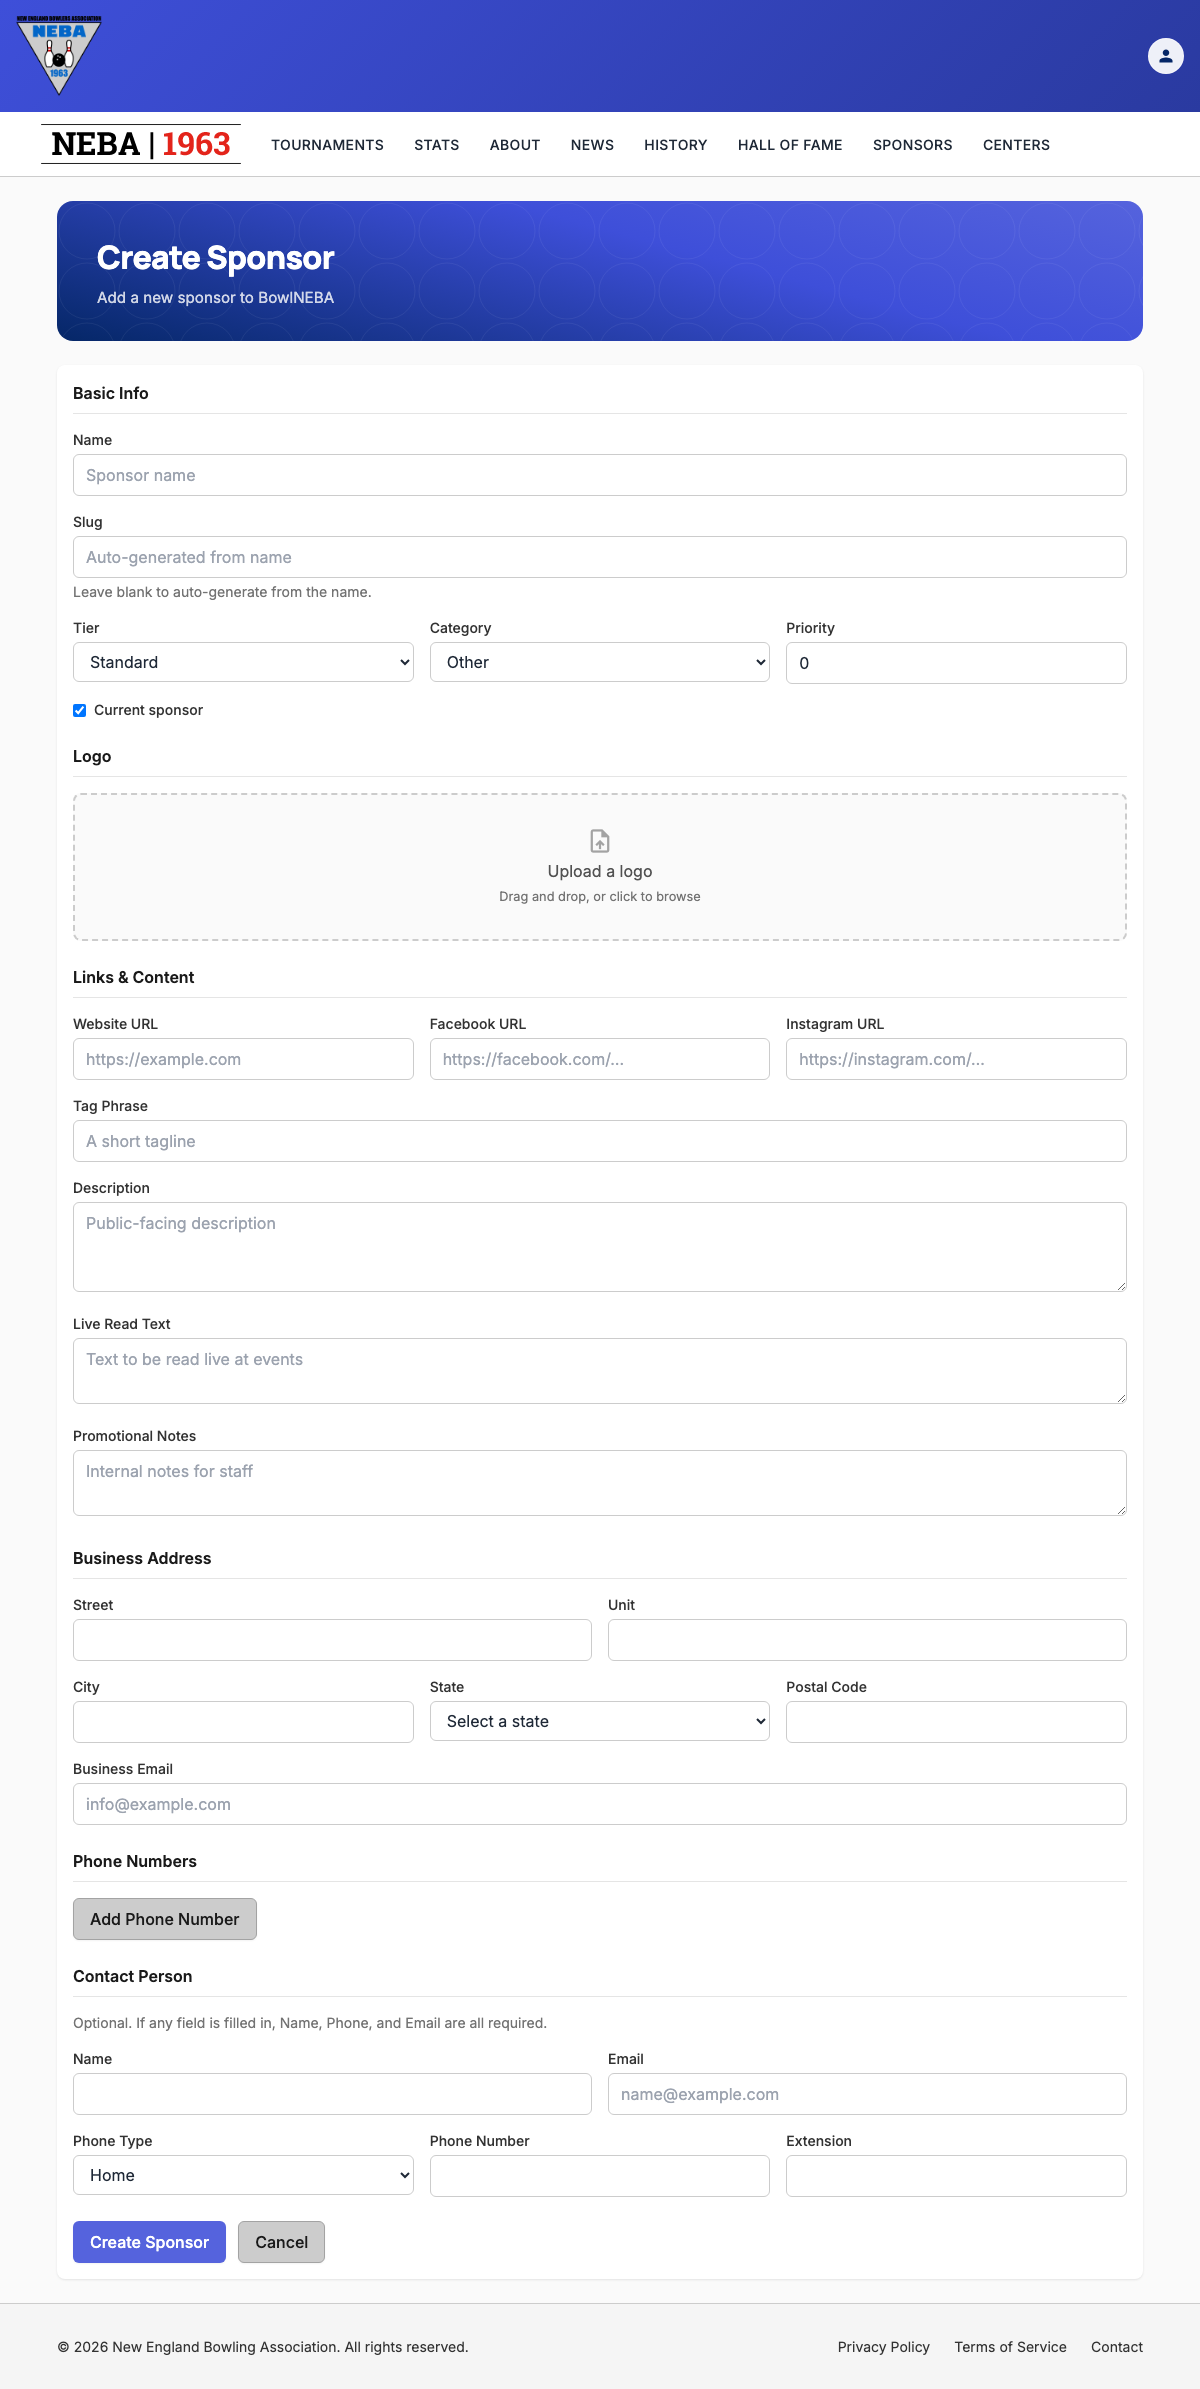
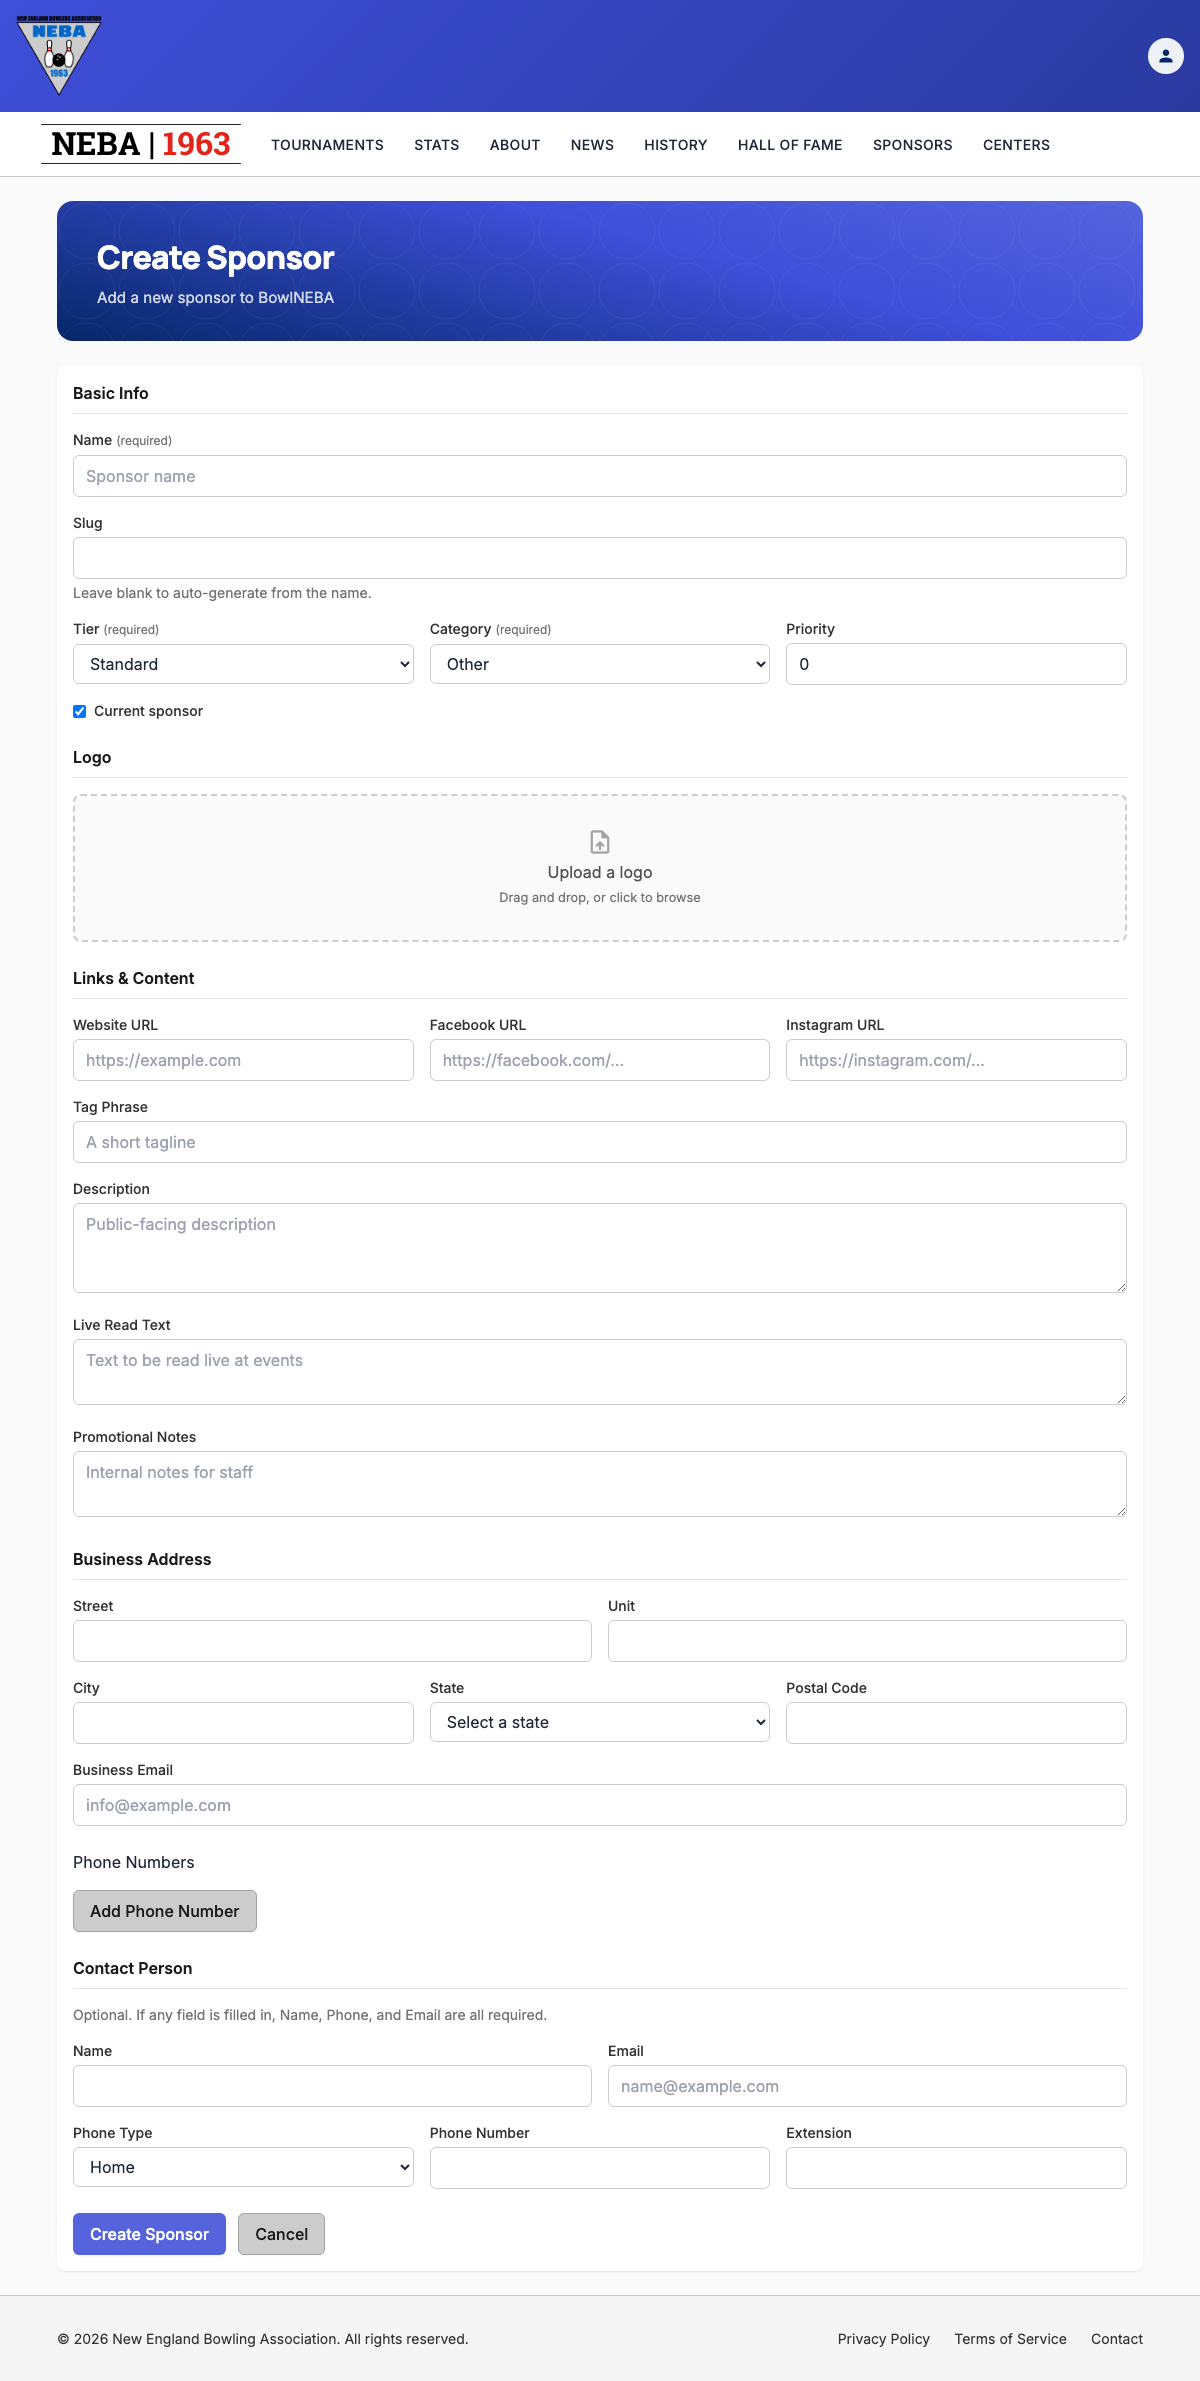
Add FormLabel component for required field indicators
Introduce a shared FormLabel component that automatically displays '(required)' text for fields bound to [Required] model properties, improving accessibility and user experience. Replaces bare <label> elements across CreateArticle, EditArticle, CreateSponsor, EditSponsor, and CreateTournament forms. The component uses reflection on the bound model property to detect [Required] attributes, ensuring the indicator stays in sync with validation rules. Updated PR review guidelines and CLAUDE.md to document the pattern.

diff --git a/src/Neba.Website.Server/Components/FormLabel.razor.css b/src/Neba.Website.Server/Components/FormLabel.razor.css
@@ -1,0 +1,6 @@
+.form-label-required-tag {
+    margin-left: 0.25rem;
+    font-size: 0.75rem;
+    font-weight: 400;
+    color: var(--neba-gray-500);
+}

diff --git a/CLAUDE.md b/CLAUDE.md
@@ -190,6 +190,26 @@ Every data-entry page (any page with an `EditForm`, file uploads, or similar use
 
 Enforced going forward via `.github/instructions/pull-request-review.instructions.md` (Blazor section + Review Checklist).
 
+### Required-Field Indicator — Mark Required, Not Optional
+
+A bare asterisk next to a label is no longer the right pattern: it isn't reliably announced by screen readers, and its meaning ("required"? "important"? a footnote?) isn't self-evident without a legend. Current guidance (WCAG, GOV.UK, USWDS) is to mark the *minority* case in visible text, not a symbol.
+
+**Decision for this app: always mark required fields with the text "(required)"**, never optional fields. This was chosen over "mark optional fields" (the more common guideline when a form is mostly required) because an audit of the app's five real forms showed the opposite is true here — Sponsor forms are ~87% optional (3 of ~23 fields required), so marking optional fields there would tag most of the form instead of the few fields that actually matter. Marking required fields instead stays cheap on every form regardless of its required/optional ratio (3–4 tags at most).
+
+**How it works**: use the shared `Components/FormLabel.razor` component instead of a bare `<label>` — do not hand-roll labels on new form fields.
+
+```razor
+<FormLabel TargetId="name" For="@(() => _model.Name)">Name</FormLabel>
+<InputText id="name" @bind-Value="_model.Name" class="neba-input" placeholder="Sponsor name" />
+```
+
+- `TargetId` renders the label's `for` attribute, same as a plain `<label>`.
+- `For` is an expression identifying the bound model property (same pattern as `ValidationMessage`'s `For`). `FormLabel` reflects on it via `FieldIdentifier.Create(For)` to check for a `[Required]` `DataAnnotation`, and renders "(required)" automatically when present — there is no manual `IsRequired`/`IsOptional` parameter to set, so the label can never drift out of sync with the model's actual validation attribute.
+- Labels for fields that aren't bound to a `[Required]`-annotated model property (file uploads, custom pickers with a plain `<select>`, checkboxes) stay as plain `<label>` — `FormLabel` only applies where there's a real `For` expression to reflect on.
+- **Login/credential-only forms are excluded**, same rationale as the Dirty Form Guard exception above: when every field on a form is required (e.g. `Login.razor`), tagging all of them adds no information, so those forms keep plain `<label>` elements with no indicator at all.
+
+Applied to `CreateSponsor.razor`, `EditSponsor.razor`, `CreateArticle.razor`, `EditArticle.razor`, `CreateTournament.razor`. `Login.razor` intentionally left unmarked (see exclusion above).
+
 ### Lightweight Collection Projections — Naming Convention
 
 When a UI need (e.g. a picker/dropdown) only requires a reduced projection of an existing collection (a few scalar fields instead of the full aggregate graph), check whether an existing query already returns a superset of that data before adding a new query/endpoint. Reuse-and-project-down at the consuming layer is preferred over a parallel lightweight endpoint — e.g. a tournament-linking picker in the news create form reuses `ListTournamentsInSeasonQuery`/`ISeasonsApi.ListTournamentsInSeasonAsync` (already consumed via `ITournamentApiService.GetTournamentsForSeasonAsync` → `SeasonTournamentViewModel`) rather than adding a second, near-duplicate "just Id/Name/StartDate" query — the existing one already returns everything a picker needs, and a second query with the same route shape only invites drift between two sources of truth for the same data.

diff --git a/.github/instructions/pull-request-review.instructions.md b/.github/instructions/pull-request-review.instructions.md
@@ -219,6 +219,7 @@ Flag when:
 - Missing loading state handling
 - Components placed in Client project without clear justification (offline, browser APIs, latency-sensitive)
 - Data-entry pages/forms (anything with `EditForm`, file uploads, or similar user input) don't guard against losing unsaved changes on Cancel, in-app navigation, or refresh/close — wrap with `<DirtyFormGuard IsDirty="@_isDirty" />` (`Components/DirtyFormGuard.razor`) and track `_isDirty` via `EditContext.OnFieldChanged` plus explicit `MarkDirty()` calls for anything outside the `EditForm` (file uploads, non-`InputBase` bound fields). See `CreateArticle.razor` for the reference implementation.
+- A field bound to a `[Required]` model property uses a bare `<label>` instead of `<FormLabel TargetId="..." For="@(() => _model.X)">` (`Components/FormLabel.razor`) — required fields must show a "(required)" tag, not a bare asterisk or no indicator at all. Exception: forms where every field is required (e.g. `Login.razor`) may keep plain `<label>` elements, since marking every field adds no information.
 
 ---
 
@@ -689,6 +690,7 @@ When reviewing, verify:
 
 - [ ] Blazor components don't fetch data directly
 - [ ] Data-entry pages/forms use `DirtyFormGuard` to warn before losing unsaved changes
+- [ ] Fields bound to `[Required]` model properties use `FormLabel` (not a bare `<label>`) so required fields show a "(required)" tag
 
 ### User Help Documentation
 
